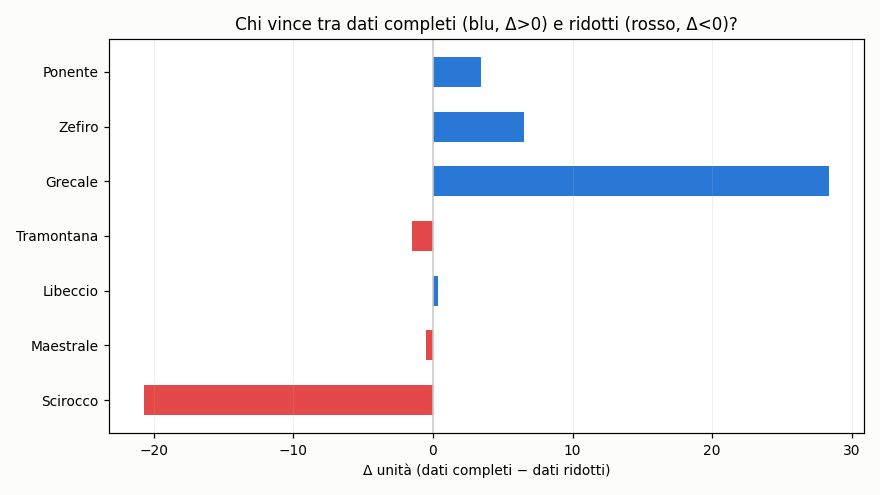
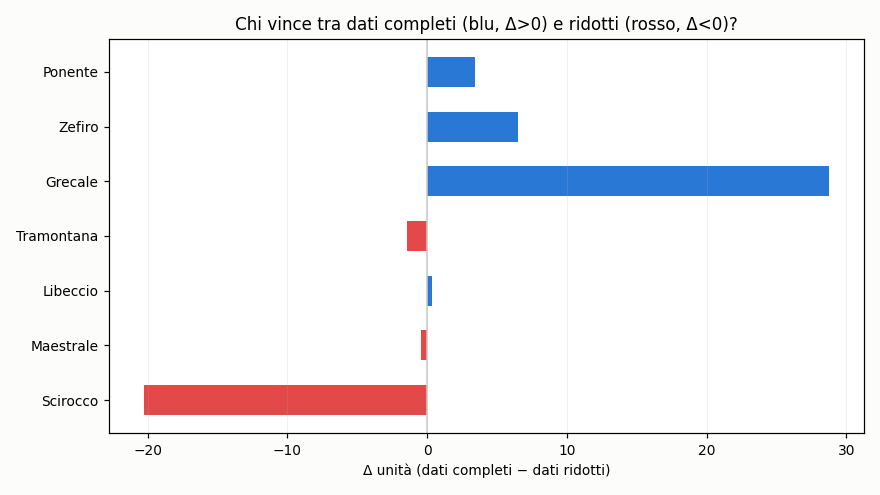
aggiornamento 2026-07-25 16:36 UTC

diff --git a/README.md b/README.md
@@ -37,9 +37,9 @@ scala in unità). Non indichiamo quale.
 
 ## Grafici
 
-![Coppie: dati completi vs ridotti](https://raw.githubusercontent.com/Kitem19/ippica-track-record/main/charts/equity_pairs.png?v=8e191364)
+![Coppie: dati completi vs ridotti](https://raw.githubusercontent.com/Kitem19/ippica-track-record/main/charts/equity_pairs.png?v=4be9b6c3)
 
-![Delta per coppia](https://raw.githubusercontent.com/Kitem19/ippica-track-record/main/charts/coppie_delta.png?v=c0d75eed)
+![Delta per coppia](https://raw.githubusercontent.com/Kitem19/ippica-track-record/main/charts/coppie_delta.png?v=b7cb7f61)
 
 ### Come leggere i grafici
 
@@ -56,11 +56,11 @@ scala in unità). Non indichiamo quale.
 
 _Poche giornate: numeri ancora rumorosi, si conclude a fine fase (31/7)._
 
-- **Scirocco**: dati ridotti avanti di 20,7u — qui gli extra non aiutano
+- **Scirocco**: dati ridotti avanti di 20,3u — qui gli extra non aiutano
 - **Maestrale**: in sostanziale pareggio — troppo presto per dire
 - **Libeccio**: in sostanziale pareggio — troppo presto per dire
 - **Tramontana**: in sostanziale pareggio — troppo presto per dire
-- **Grecale**: dati completi avanti di 28,4u
+- **Grecale**: dati completi avanti di 28,8u
 - **Zefiro**: dati completi avanti di 6,5u
 - **Ponente**: dati completi avanti di 3,4u
 
@@ -68,22 +68,22 @@ _Poche giornate: numeri ancora rumorosi, si conclude a fine fase (31/7)._
 
 | Sistema | Cassa (u) | P/L (u) | Selezioni | Escluse | Stato |
 |---|---|---|---|---|---|
-| Grecale | 28,1 | +8,1 | 297 | 4 | 🟢 |
-| Scirocco-B | 20,7 | +0,7 | 221 | 0 | 🟢 |
+| Grecale | 28,5 | +8,5 | 298 | 4 | 🟢 |
+| Scirocco-B | 20,2 | +0,2 | 222 | 0 | 🟢 |
 | Zefiro | 6,1 | -13,9 | 261 | 5 | ⏸ |
 | Ponente | 2,5 | -17,5 | 208 | 28 | 🟢 |
-| Tramontana-B | 1,2 | -18,8 | 323 | 8 | ⏸ |
-| Maestrale-B | 0,0 | -20,0 | 100 | 230 | 🛑 |
-| Scirocco | 0,0 | -20,1 | 80 | 238 | 🛑 |
-| Grecale-B | 0,0 | -20,2 | 137 | 169 | 🛑 |
-| Tramontana | 0,0 | -20,3 | 45 | 302 | 🛑 |
-| Zefiro-B | 0,0 | -20,5 | 143 | 68 | 🛑 |
-| Maestrale | 0,0 | -20,5 | 104 | 250 | 🛑 |
-| Libeccio | 0,0 | -20,6 | 181 | 159 | 🛑 |
-| Libeccio-B | 0,0 | -20,9 | 119 | 175 | 🛑 |
+| Tramontana-B | 1,2 | -18,8 | 323 | 9 | ⏸ |
+| Maestrale-B | 0,0 | -20,0 | 100 | 231 | 🛑 |
+| Scirocco | 0,0 | -20,1 | 80 | 239 | 🛑 |
+| Grecale-B | 0,0 | -20,2 | 137 | 170 | 🛑 |
+| Tramontana | 0,0 | -20,3 | 45 | 303 | 🛑 |
+| Zefiro-B | 0,0 | -20,5 | 143 | 69 | 🛑 |
+| Maestrale | 0,0 | -20,5 | 104 | 251 | 🛑 |
+| Libeccio | 0,0 | -20,6 | 181 | 160 | 🛑 |
+| Libeccio-B | 0,0 | -20,9 | 119 | 176 | 🛑 |
 | Ponente-B | 0,0 | -21,0 | 63 | 84 | 🛑 |
 
-_Aggiornato: 25/07 18:31_
+_Aggiornato: 25/07 18:36_
 ---
 *Nessuna delle informazioni qui pubblicate costituisce consiglio di gioco.
 Il gioco può causare dipendenza — 18+.*
